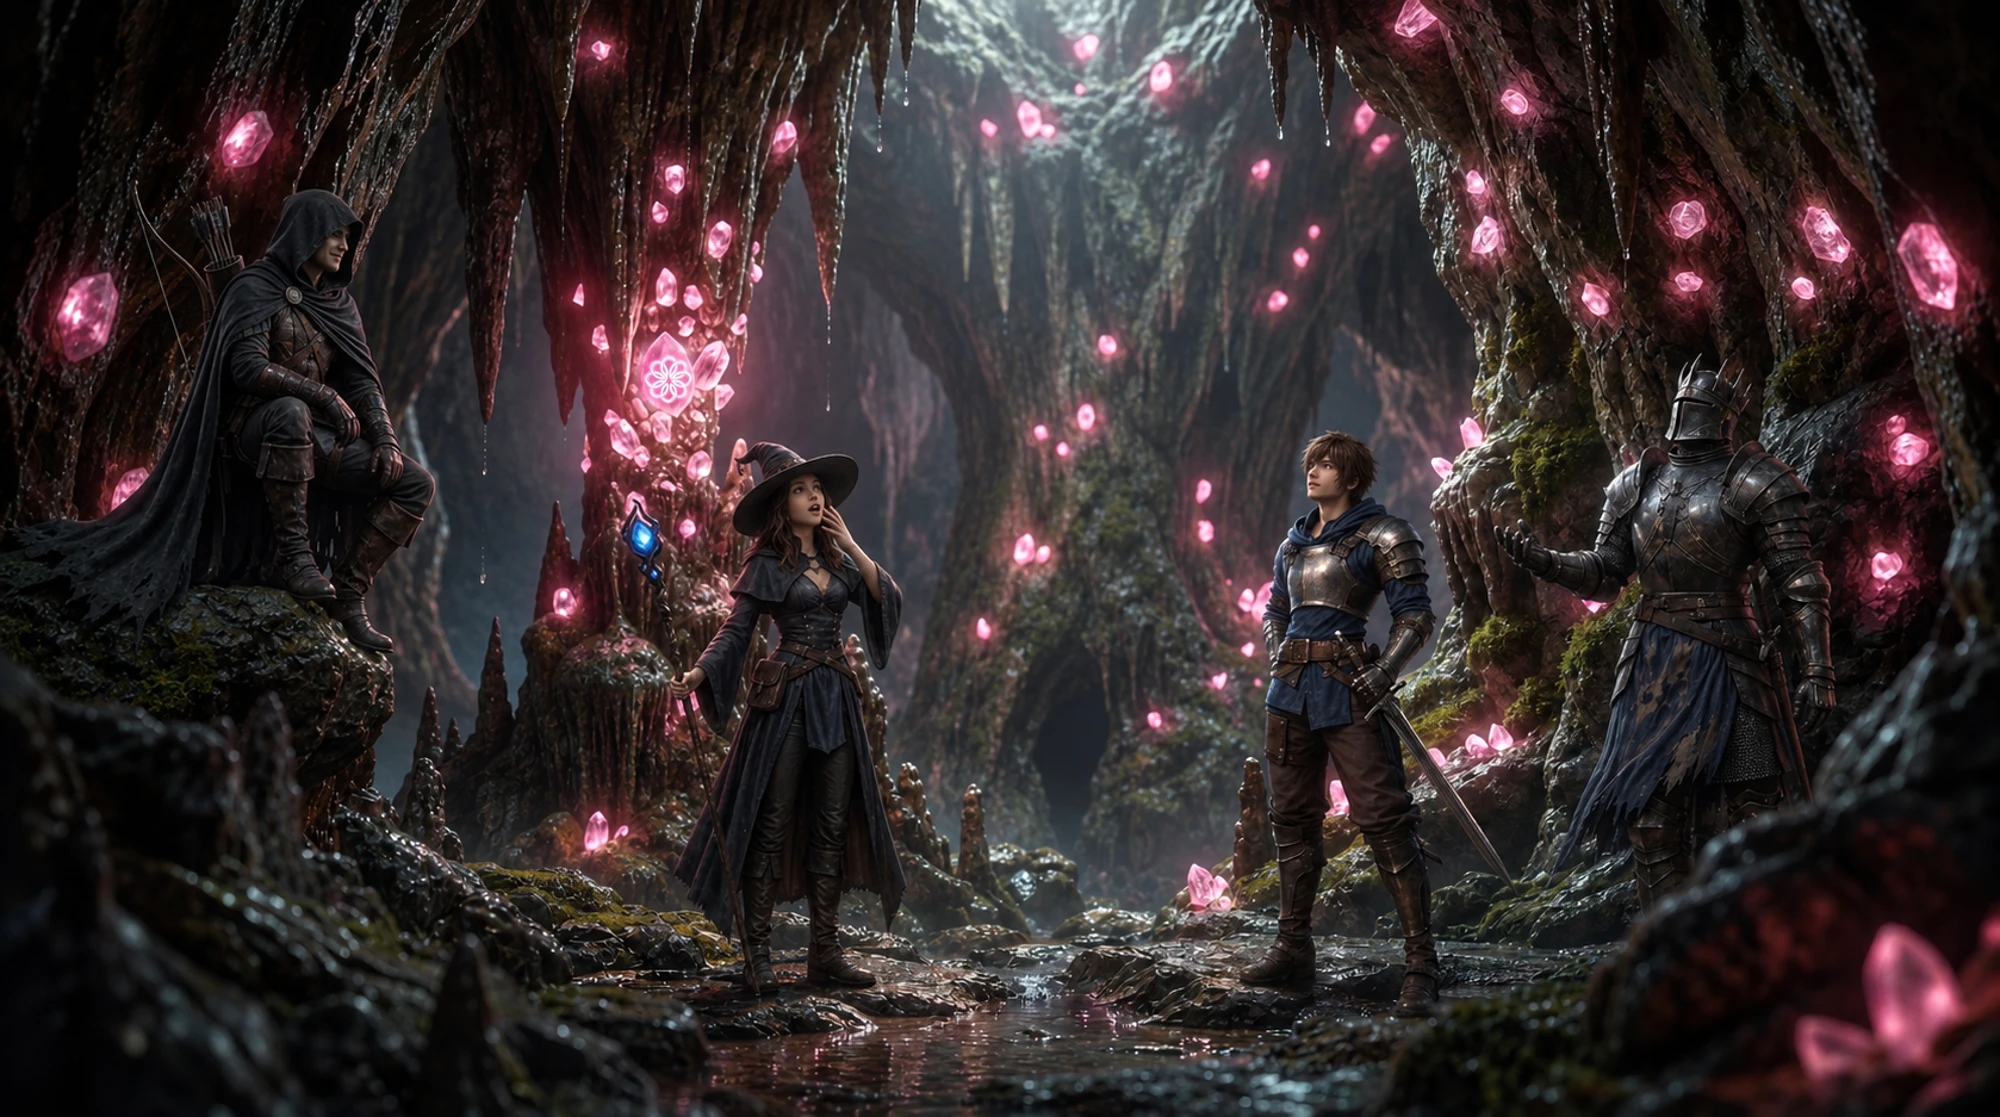
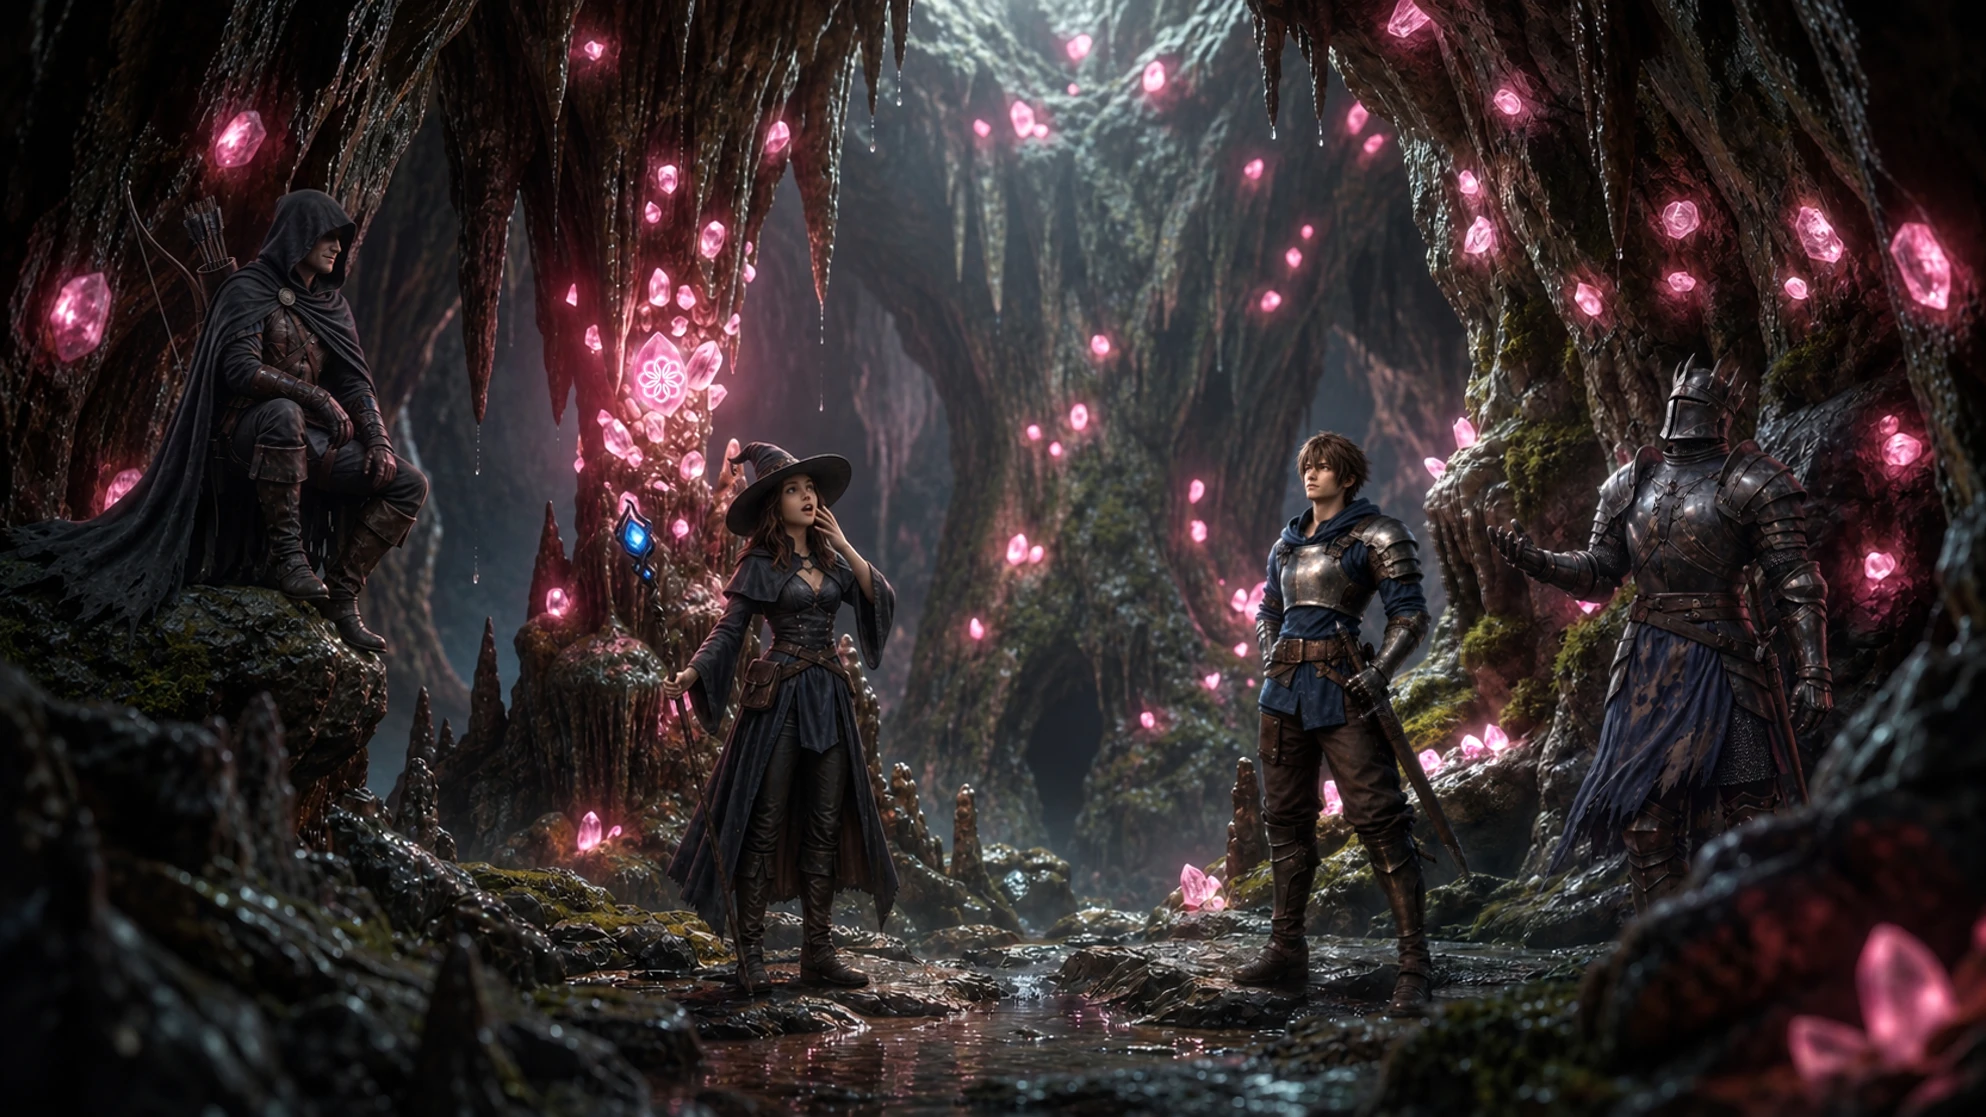
Add the day4 report and minor-change_08022026

diff --git a/src/components/News.tsx b/src/components/News.tsx
@@ -8,6 +8,7 @@ import newsDay0Img from '../assets/datsuichi-news-day0.webp';
 import newsOpenImg from '../assets/datsuichi-news-open.webp';
 import newsDay2Img from '../assets/datsuichi-news-day2.webp';
 import newsDay3Img from '../assets/datsuichi-news-day3.webp';
+import newsDay4Img from '../assets/datsuichi-news-day4.webp';
 
 export interface NewsItem {
   id: string;
@@ -19,6 +20,39 @@ export interface NewsItem {
 }
 
 export const newsItems: NewsItem[] = [
+  {
+    id: 'news-001-day4',
+    date: '2026.08.01',
+    category: 'REPORT',
+    title: 'Day4｜Webサイト・コンペティション決着。そして「業務自動化」の深淵へ。',
+    images: [newsDay4Img],
+    content: `<p>2026年8月1日。</p>
+<p>「ダツイチ―新大陸」は、最初の大きな山場である「Web制作フェーズ」の完結と、次なる挑戦である「Instagram運用自動化」のキックオフを迎えました。</p>
+<p>AIを「道具」から「仕組み」へと昇華させるための、より実践的で高度な思考が求められるフェーズへと突入します。</p>
+<p class="text-white font-bold mt-6 mb-2">■「想い」が形を成す、Webサイト・コンペの結果</p>
+<p>オクトエイドでの審査会（7/25開催）を経て、全10作品の中から上位入賞者が発表されました。評価基準は、単なる見た目の美しさだけではなく、「世界観・トーン＆マナー」「サイトの分かりやすさ」「行動への動線」「NGルールの回避（プレッシャーの排除）」「スマホでの見やすさ」という、ユーザー体験とクライアントの理念に深く根ざした5つの観点で採点されました。</p>
+<p>● 第1位 ヨコさん氏：アニメーションと豊富なイラストを駆使し、絵本のような温かい世界観を構築。「届けたい」という切実な想いが、AIスキルを凌駕し、技術的完成度と理念の体現を両立させた点が最高評価を得ました。</p>
+<p>● 第2位 シェフ氏：メンタルヘルスの観点から、安易な自己診断を下さないよう配慮。リスク管理というプロフェッショナルな視点が高く評価されました。</p>
+<p>● 第3位 トミー氏：SNSやポスターとの連動を意識したブランド設計の高さと, スマホユーザーを意識した操作性が光りました。</p>
+<p>今回のコンペは、参加者のスキルの高さを示すだけでなく、運営側にとっても「コンセプトの言語化」という新たな学びをもたらす「相互研鑽の場」となりました。</p>
+<p class="text-white font-bold mt-6 mb-2">■次なるミッション：「完全自動化」ではなく「最適化」</p>
+<p>Day4後半では、プロジェクトの第2フェーズである「Instagramコンテンツ自動作成システム」の構築が提示されました。目標は、2〜3日に1回の安定した投稿を維持しつつ、運用の手間を劇的に削減することです。</p>
+<p>けれど、真に目指すのは「人間を排除した自動化」ではありません。</p>
+<p>● カルーセル投稿案の自動生成： AIが4〜5枚の画像とキャプション（150〜300文字）を下書き。</p>
+<p>● 厳格な制約（ガードレール）： 医療行為への誘導や断定的な表現を避け、身近な相談を促す優しい言葉選びを徹底。</p>
+<p>● 複数人運用への対応： 生成されたコンテンツを管理者が確認・承認するプロセスの構築。</p>
+<p>AIが得意な「生成」と、人間が担うべき「責任と承認」を分離し、実務に耐えうる現実的なシステム設計が求められます。</p>
+<p class="text-white font-bold mt-6 mb-2">■「IPOフレームワーク」と「ヒューマン・イン・ザ・ループ」</p>
+<p>技術アドバイザーのカーリー氏から、業務を自動化するための知的アプローチとして、「IPO（Input / Process / Output）」による業務分析と、「モジュール化」の重要性が説かれました。業務全体を一気に自動化するのではなく、要素ごとに分解して考えることで、実現可能性を高める戦略です。</p>
+<p>また、現代のAI活用における重要概念である「ヒューマン・イン・ザ・ループ（人間による介在）」が提唱されました。これは、AIのループの中に意図的に人間による判断工程を組み込むことで、品質担保と責任の所在を明確にする考え方です。さらに、API利用のコストや保守性、ビジネスアカウントの要件まで考慮した「見積もり提案」までをミッションに含めるという、極めて実務的な要件が提示されました。</p>
+<p class="text-white font-bold mt-6 mb-2">■学びのプロセスこそが最大の成果</p>
+<p>「ダツイチ―新大陸」は、完成品のクオリティだけでなく、そこに至るまでの思考プロセスを重視しています。参加者は、ChatGPTやClaudeなどのAIとの「壁打ち」を繰り返し、自身の環境に合わせた最適な設計図を構築していきます。</p>
+<p>完璧な自動化システムを作り上げること自体が目的ではありません。業務をどう分解し、AIという武器をどこに配置すれば、ビジネスの課題を解決できるのか。この問いに対し、試行錯誤しながら自分なりの「答え」を導き出すプロセスこそが、自律性を育む糧となります。</p>
+<hr class="border-slate-800 my-6" />
+<p class="text-white font-bold">■今後のスケジュール</p>
+<p>● Day 5： 各自による自動化ツールの構築、および業務フロー設計。</p>
+<p>● Day 6： 業務プロセスの自動化戦略、システム構成案の成果発表。</p>`,
+  },
   {
     id: 'news-001-day3',
     date: '2026.07.18',
@@ -183,7 +217,7 @@ function NewsImage({ src, alt }: { src: string; alt: string; key?: any }) {
   const [isLoaded, setIsLoaded] = useState(false);
 
   return (
-    <div className="relative w-full aspect-[16/9] md:aspect-[21/9] max-h-[400px] overflow-hidden bg-slate-900/50">
+    <div className="relative w-full aspect-[16/9] overflow-hidden bg-slate-900/50">
       {/* 骨組み・ローダーアニメーション */}
       <div 
         className={`absolute inset-0 bg-gradient-to-r from-slate-900 via-slate-800/80 to-slate-900 bg-[length:200%_100%] animate-shimmer transition-opacity duration-500 ${

diff --git a/src/components/About.tsx b/src/components/About.tsx
@@ -302,11 +302,7 @@ export default function About({ isSinglePage = false, showBenefitsOnly = false, 
         )}
 
         <div className="flex flex-col md:flex-row gap-8 lg:gap-16 items-start justify-between w-full">
-          <motion.div 
-            initial={{ opacity: 0, x: -30 }}
-            whileInView={{ opacity: 1, x: 0 }}
-            transition={{ duration: 0.8 }}
-            viewport={{ once: true, margin: "-100px" }}
+          <div 
             className={`w-full ${hideBenefits ? 'max-w-4xl mx-auto px-6 text-center md:text-center' : 'md:max-w-[460px] lg:max-w-[628px] xl:max-w-[836px] pl-3 md:pl-[max(12px,calc(50vw-460px))] xl:pl-[180px]'} space-y-6 text-slate-300 text-lg leading-relaxed font-light`}
           >
             {isSinglePage ? (
@@ -382,7 +378,7 @@ export default function About({ isSinglePage = false, showBenefitsOnly = false, 
                 </p>
               </div>
             )}
-          </motion.div>
+          </div>
           
           {!hideBenefits && (
             <motion.div 
